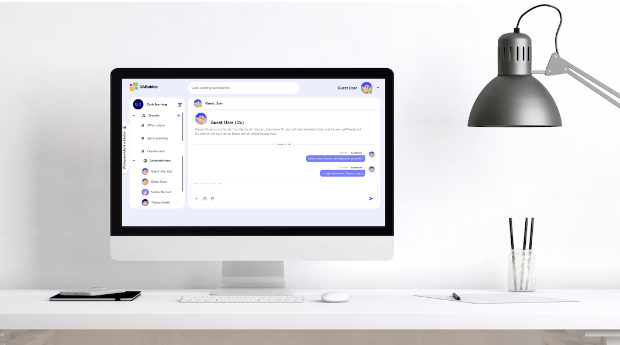
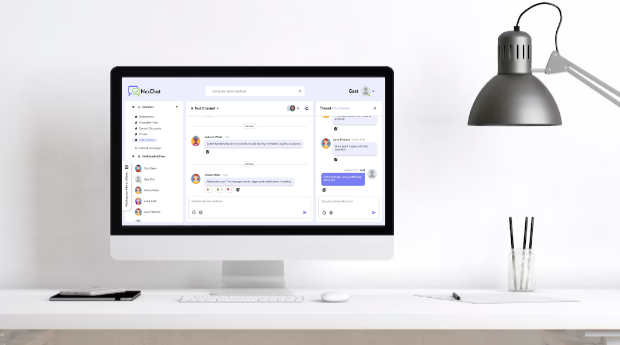
refactor: update AOS import syntax and enhance project descriptions

diff --git a/src/app/shared/project-template/project-template.component.ts b/src/app/shared/project-template/project-template.component.ts
@@ -2,7 +2,7 @@ import { Component, AfterViewInit, HostListener } from '@angular/core';
 import { CommonModule } from '@angular/common';
 import { Project } from '../../Interfaces/project.interfaces';
 import { TranslateModule } from '@ngx-translate/core';
-import AOS from 'aos';
+import * as AOS from 'aos';
 
 @Component({
   selector: 'app-project-template',
@@ -31,7 +31,7 @@ export class ProjectTemplateComponent {
       links: [
         {
           title: 'Live Demo',
-          url: 'http://dabubble.projects.prestonjones.dev/'
+          url: 'https://nexchat.projects.prestonjones.dev/'
         },
         {
           title: 'GitHub',

diff --git a/src/index.html b/src/index.html
@@ -6,8 +6,6 @@
   <base href="/">
   <meta name="viewport" content="width=device-width, initial-scale=1">
   <link rel="icon" type="image/x-icon" href="favicon.ico">
-  <link href="https://fonts.googleapis.com/css2?family=Roboto:wght@300;400;500&display=swap" rel="stylesheet">
-  <link href="https://fonts.googleapis.com/icon?family=Material+Icons" rel="stylesheet">
 </head>
 <body>
   <app-root></app-root>

diff --git a/src/app/main-content/portfolio/portfolio.component.ts b/src/app/main-content/portfolio/portfolio.component.ts
@@ -1,7 +1,7 @@
 import { Component } from '@angular/core';
 import { ProjectTemplateComponent } from '../../shared/project-template/project-template.component';
 import { TranslateModule } from '@ngx-translate/core';
-import AOS from 'aos';
+import * as AOS from 'aos';
 
 @Component({
   selector: 'app-portfolio',

diff --git a/src/app/main-content/about-me/about-me.component.ts b/src/app/main-content/about-me/about-me.component.ts
@@ -1,6 +1,6 @@
 import { Component, HostListener } from '@angular/core';
 import { TranslateService, TranslateModule } from '@ngx-translate/core';
-import AOS from 'aos';
+import * as AOS from 'aos';
 
 @Component({
   selector: 'app-about-me',

diff --git a/src/app/shared/arrow/arrow.component.ts b/src/app/shared/arrow/arrow.component.ts
@@ -1,6 +1,6 @@
 import { Component, Input, AfterViewInit, HostListener } from '@angular/core'
 import { CommonModule } from '@angular/common';
-import AOS from 'aos';
+import * as AOS from 'aos';
 
 @Component({
   selector: 'app-arrow',

diff --git a/src/app/main-content/my-skills/my-skills.component.ts b/src/app/main-content/my-skills/my-skills.component.ts
@@ -1,6 +1,6 @@
 import { Component } from '@angular/core';
 import { TranslateService, TranslateModule } from '@ngx-translate/core';
-import AOS from 'aos';
+import * as AOS from 'aos';
 
 @Component({
   selector: 'app-my-skills',
